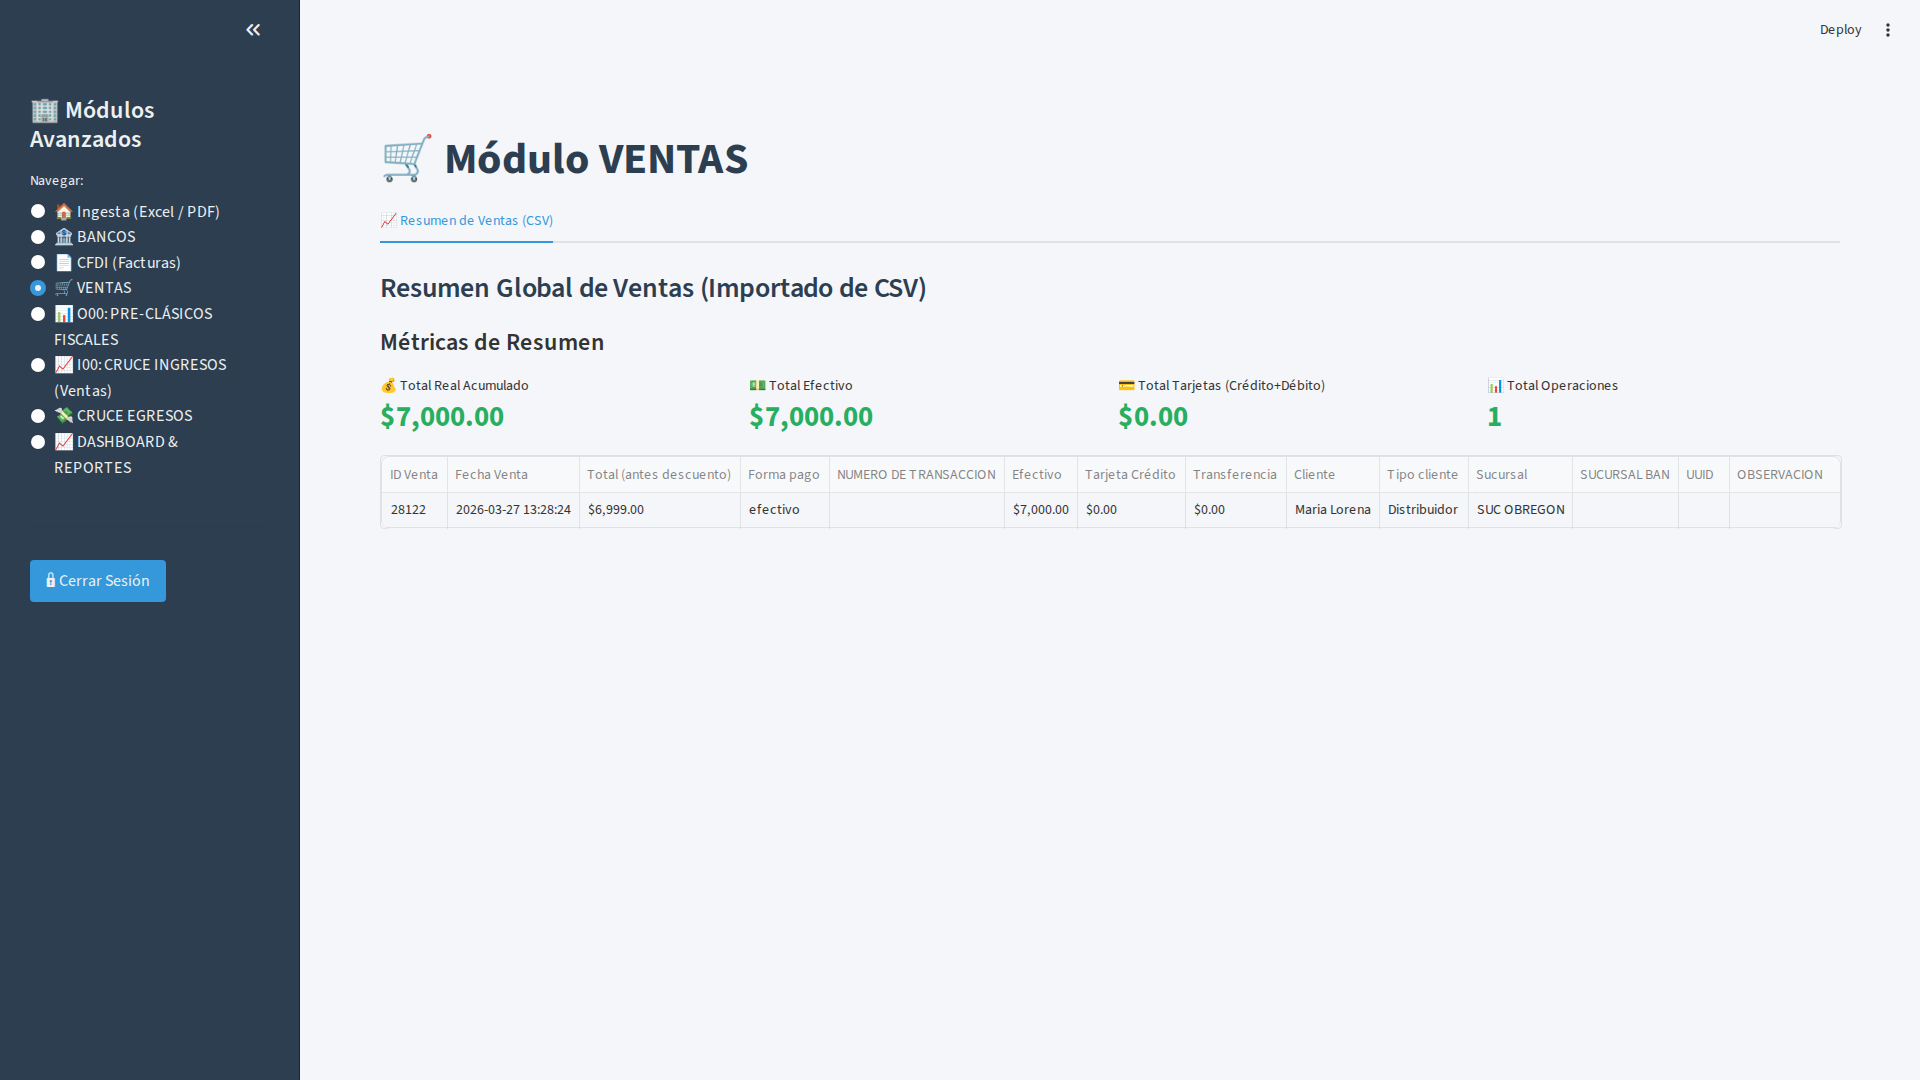
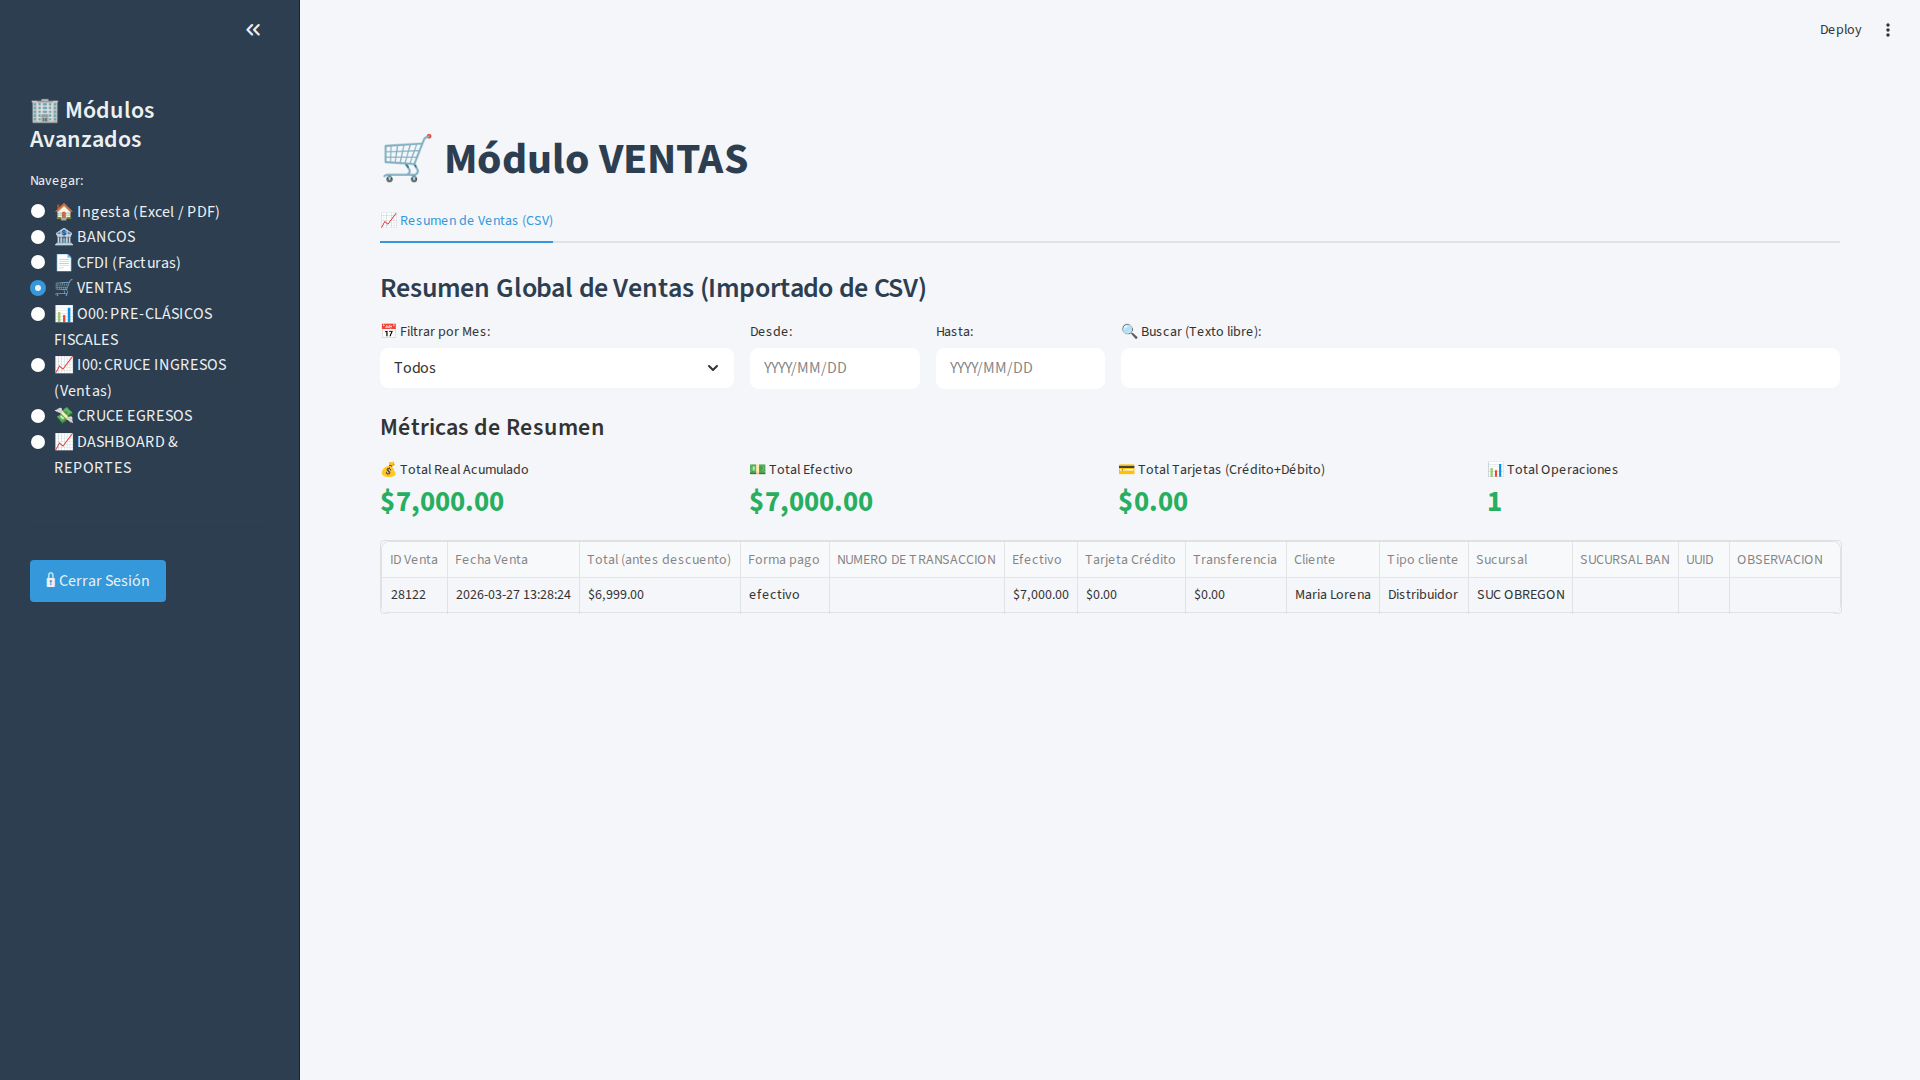
feat(ui): add global filters helper and apply to CFDI and VENTAS modules\n\n- Created `render_filtros_globales` to modularize Date Range, Month, and Search inputs.\n- Refactored `BANCOS` module to utilize this new helper.\n- Applied helper to `CFDI` and `PAGOS` modules.\n- Applied helper to `VENTAS`

diff --git a/app.py b/app.py
@@ -37,6 +37,66 @@ if not os.path.exists("conciliacion_data.db"):
     import database_sqlite
     database_sqlite.init_db()
 
+# 3. HELPER DE FILTROS GLOBALES
+def render_filtros_globales(df, col_fecha, key_prefix):
+    """Renderiza controles de Mes, Fecha y Búsqueda sobre un dataframe, retornando el DF filtrado."""
+    if df.empty:
+        return df
+
+    # --- PREPARACIÓN DE DATOS ---
+    df_filtrado = df.copy()
+    if col_fecha and col_fecha in df_filtrado.columns:
+        df_filtrado['FECHA_DT_TMP'] = pd.to_datetime(df_filtrado[col_fecha], errors='coerce')
+        # Obtener lista de meses únicos (ej. "2024-01")
+        meses_unicos = df_filtrado['FECHA_DT_TMP'].dt.to_period('M').dropna().unique()
+        lista_meses = ["Todos"] + sorted([str(m) for m in meses_unicos], reverse=True)
+    else:
+        lista_meses = ["Todos"]
+        df_filtrado['FECHA_DT_TMP'] = pd.NaT
+
+    # --- UI: FILTROS SUPERIORES ---
+    col1, col2, col3 = st.columns([1, 1, 2])
+
+    with col1:
+        mes_sel = st.selectbox("📅 Filtrar por Mes:", lista_meses, key=f"mes_{key_prefix}")
+
+    with col2:
+        min_date = df_filtrado['FECHA_DT_TMP'].min() if not pd.isna(df_filtrado['FECHA_DT_TMP'].min()) else None
+        max_date = df_filtrado['FECHA_DT_TMP'].max() if not pd.isna(df_filtrado['FECHA_DT_TMP'].max()) else None
+
+        if min_date and max_date:
+            col2_1, col2_2 = st.columns(2)
+            with col2_1:
+                fecha_desde = st.date_input("Desde:", value=None, min_value=min_date.date(), max_value=max_date.date(), key=f"desde_{key_prefix}")
+            with col2_2:
+                fecha_hasta = st.date_input("Hasta:", value=None, min_value=min_date.date(), max_value=max_date.date(), key=f"hasta_{key_prefix}")
+        else:
+            fecha_desde = None
+            fecha_hasta = None
+
+    with col3:
+        busqueda = st.text_input("🔍 Buscar (Texto libre):", "", key=f"buscar_{key_prefix}")
+
+    # --- APLICAR FILTROS ---
+    if mes_sel != "Todos":
+        df_filtrado = df_filtrado[df_filtrado['FECHA_DT_TMP'].dt.strftime('%Y-%m') == mes_sel]
+
+    if fecha_desde is not None:
+        df_filtrado = df_filtrado[df_filtrado['FECHA_DT_TMP'].dt.date >= fecha_desde]
+    if fecha_hasta is not None:
+        df_filtrado = df_filtrado[df_filtrado['FECHA_DT_TMP'].dt.date <= fecha_hasta]
+
+    if busqueda:
+        busqueda_lower = str(busqueda).lower()
+        mask_busqueda = df_filtrado.astype(str).apply(lambda row: row.str.lower().str.contains(busqueda_lower).any(), axis=1)
+        df_filtrado = df_filtrado[mask_busqueda]
+
+    # Limpiar columna temporal
+    if 'FECHA_DT_TMP' in df_filtrado.columns:
+        df_filtrado = df_filtrado.drop(columns=['FECHA_DT_TMP'])
+
+    return df_filtrado
+
 # ==========================================================
 # MENÚ LATERAL
 # ==========================================================
@@ -220,83 +280,17 @@ elif eleccion == "🏦 BANCOS":
                 st.info("La tabla seleccionada no contiene registros.")
                 return
 
-            # --- PREPARACIÓN DE DATOS ---
-            # Asegurar que FECHA es datetime para poder filtrar
-            if 'FECHA' in df.columns:
-                df['FECHA_DT'] = pd.to_datetime(df['FECHA'], errors='coerce')
-                # Obtener lista de meses únicos (ej. "2024-01")
-                meses_unicos = df['FECHA_DT'].dt.to_period('M').dropna().unique()
-                lista_meses = ["Todos"] + sorted([str(m) for m in meses_unicos], reverse=True)
-            else:
-                lista_meses = ["Todos"]
-                df['FECHA_DT'] = pd.NaT
-
-            # --- UI: FILTROS SUPERIORES ---
-            col1, col2, col3 = st.columns([1, 1, 2])
-
-            with col1:
-                mes_sel = st.selectbox("📅 Filtrar por Mes:", lista_meses, key=f"mes_{key_prefix}")
-
-            with col2:
-                # Determinar min y max dates
-                min_date = df['FECHA_DT'].min() if not pd.isna(df['FECHA_DT'].min()) else None
-                max_date = df['FECHA_DT'].max() if not pd.isna(df['FECHA_DT'].max()) else None
-
-                if min_date and max_date:
-                    col2_1, col2_2 = st.columns(2)
-                    with col2_1:
-                        fecha_desde = st.date_input(
-                            "Desde:",
-                            value=None,
-                            min_value=min_date.date(),
-                            max_value=max_date.date(),
-                            key=f"desde_{key_prefix}"
-                        )
-                    with col2_2:
-                        fecha_hasta = st.date_input(
-                            "Hasta:",
-                            value=None,
-                            min_value=min_date.date(),
-                            max_value=max_date.date(),
-                            key=f"hasta_{key_prefix}"
-                        )
-                else:
-                    fecha_desde = None
-                    fecha_hasta = None
-                    st.write("Sin fechas válidas")
-
-            with col3:
-                busqueda = st.text_input("🔍 Buscar (Concepto, Referencia, Monto, etc):", "", key=f"buscar_{key_prefix}")
-
-            # --- APLICAR FILTROS ---
-            df_filtrado = df.copy()
-
-            # Filtro por Mes
-            if mes_sel != "Todos":
-                df_filtrado = df_filtrado[df_filtrado['FECHA_DT'].dt.strftime('%Y-%m') == mes_sel]
-
-            # Filtro Rango Fechas
-            if fecha_desde is not None:
-                df_filtrado = df_filtrado[df_filtrado['FECHA_DT'].dt.date >= fecha_desde]
-            if fecha_hasta is not None:
-                df_filtrado = df_filtrado[df_filtrado['FECHA_DT'].dt.date <= fecha_hasta]
-
-            # Filtro por Búsqueda (Texto Libre)
-            if busqueda:
-                busqueda_lower = str(busqueda).lower()
-                # Buscar en todas las columnas convirtiendo la fila a string
-                mask_busqueda = df_filtrado.astype(str).apply(lambda row: row.str.lower().str.contains(busqueda_lower).any(), axis=1)
-                df_filtrado = df_filtrado[mask_busqueda]
+            # Aplicar filtros globales usando la columna 'FECHA'
+            df_filtrado = render_filtros_globales(df, col_fecha='FECHA', key_prefix=key_prefix)
 
             # --- UI: MÉTRICAS RESUMEN ---
             # Calcular totales del dataframe filtrado
             tot_cargo = pd.to_numeric(df_filtrado['CARGO'], errors='coerce').sum() if 'CARGO' in df_filtrado.columns else 0
             tot_abono = pd.to_numeric(df_filtrado['ABONO'], errors='coerce').sum() if 'ABONO' in df_filtrado.columns else 0
 
-            # Obtener el último saldo (ordenando por fecha si es posible, o simplemente el último de la lista)
+            # Obtener el último saldo
             saldo_final = 0
             if 'SALDO' in df_filtrado.columns and not df_filtrado.empty:
-                 # Si la fecha está ordenada ascendente, el último registro tiene el saldo final
                  ultimo_saldo = pd.to_numeric(df_filtrado['SALDO'], errors='coerce').dropna().tail(1)
                  if not ultimo_saldo.empty:
                      saldo_final = ultimo_saldo.iloc[0]
@@ -308,8 +302,7 @@ elif eleccion == "🏦 BANCOS":
             m4.metric("📝 Movimientos", len(df_filtrado))
 
             # --- UI: TABLA DE DATOS ---
-            # Quitar columna auxiliar FECHA_DT
-            df_mostrar = df_filtrado.drop(columns=['FECHA_DT']) if 'FECHA_DT' in df_filtrado.columns else df_filtrado
+            df_mostrar = df_filtrado.copy()
 
             # Reordenar columnas a 10 columnas estándar si existen
             columnas_orden = ['FECHA', 'CONCEPTO', 'REFERENCE', 'ABONO', 'CARGO', 'SALDO', 'OBSERVACION', 'UUID COMPL.', 'UUID MADRE', 'ID VENTA']
@@ -372,7 +365,16 @@ elif eleccion == "📄 CFDI (Facturas)":
         else:
             bloque_cfdi = st.selectbox("Selecciona bloque fiscal:", tablas_mostrar)
             df = get_df_from_sql(bloque_cfdi)
-            df_mostrar = df.copy()
+
+            # Identificar la columna de fecha para este bloque para los filtros
+            col_fecha = 'Fecha Emisión'
+            if "PAGOS" in bloque_cfdi:
+                col_fecha = 'Fecha Pago'
+
+            # Aplicar filtros globales
+            df_filtrado = render_filtros_globales(df, col_fecha=col_fecha, key_prefix=f"cfdi_{bloque_cfdi}")
+
+            df_mostrar = df_filtrado.copy()
 
             # Lógica de Columnas a Mostrar según el tipo de archivo seleccionado
             # Agregamos placeholders vacíos para conciliaciones futuras si no existen
@@ -459,7 +461,10 @@ elif eleccion == "🛒 VENTAS":
         if tabla_resumen:
             with tabs[tab_idx]:
                 st.subheader("Resumen Global de Ventas (Importado de CSV)")
-                df_resumen = get_df_from_sql("VENTAS_RESUMEN")
+                df_resumen_raw = get_df_from_sql("VENTAS_RESUMEN")
+
+                # Aplicar filtros globales
+                df_resumen = render_filtros_globales(df_resumen_raw, col_fecha='fecha venta', key_prefix='resumen_ventas')
 
                 # Formatear la tabla del CSV para la vista
                 if not df_resumen.empty:
@@ -467,7 +472,7 @@ elif eleccion == "🛒 VENTAS":
                     if 'fecha venta' in df_resumen.columns:
                         df_resumen['fecha venta'] = pd.to_datetime(df_resumen['fecha venta'], errors='ignore').astype(str).str.replace(' 00:00:00', '')
 
-                    # Guardamos un respaldo numérico antes de formatear para poder sumar correctamente
+                    # Guardamos un respaldo numérico filtrado antes de formatear para poder sumar correctamente
                     df_numerico = df_resumen.copy()
 
                     # Formatear montos
@@ -546,7 +551,11 @@ elif eleccion == "🛒 VENTAS":
 
                 if tablas_ventas:
                     bloque = st.selectbox("Selecciona bloque operativo (Notas Detalle):", tablas_ventas)
-                    df_v = get_df_from_sql(bloque)
+                    df_v_raw = get_df_from_sql(bloque)
+
+                    # Aplicar filtros globales (la columna es fecha o FECHA)
+                    col_fecha_v = 'fecha' if 'fecha' in df_v_raw.columns else 'FECHA'
+                    df_v = render_filtros_globales(df_v_raw, col_fecha=col_fecha_v, key_prefix=f"ventas_{bloque}")
 
                     # Formatear columnas para visualizacion
                     mapa_cols = {
@@ -603,7 +612,10 @@ elif eleccion == "🛒 VENTAS":
                 st.subheader("Detalle Analítico de Mercado Pago")
                 st.markdown("Tabla auxiliar que muestra el desglose de los cobros y operaciones de Mercado Pago. Útil para conciliar luego contra el Estado de Cuenta global y las Ventas.")
 
-                df_mp_aux = get_df_from_sql("AUX_MP_DETALLE")
+                df_mp_aux_raw = get_df_from_sql("AUX_MP_DETALLE")
+
+                # Aplicar filtros globales
+                df_mp_aux = render_filtros_globales(df_mp_aux_raw, col_fecha='Fecha del cargo', key_prefix='mp_detalle')
 
                 # Columnas solicitadas: Fecha del cargo, Detalle, Valor del cargo, Operación relacionada, Nombre de sucursal, Valor de la operación, ID VENTA
                 cols_requeridas = ['Fecha del cargo', 'Detalle', 'Valor del cargo', 'Operación relacionada', 'Nombre de sucursal', 'Valor de la operación']
